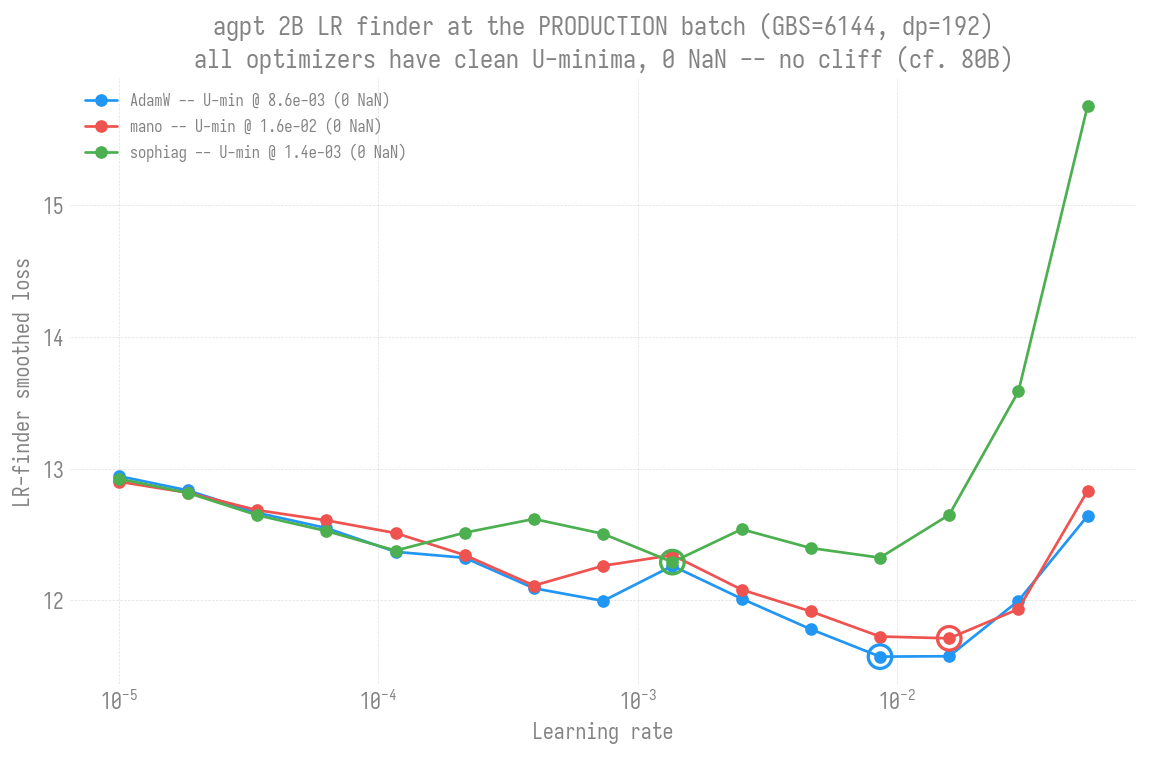
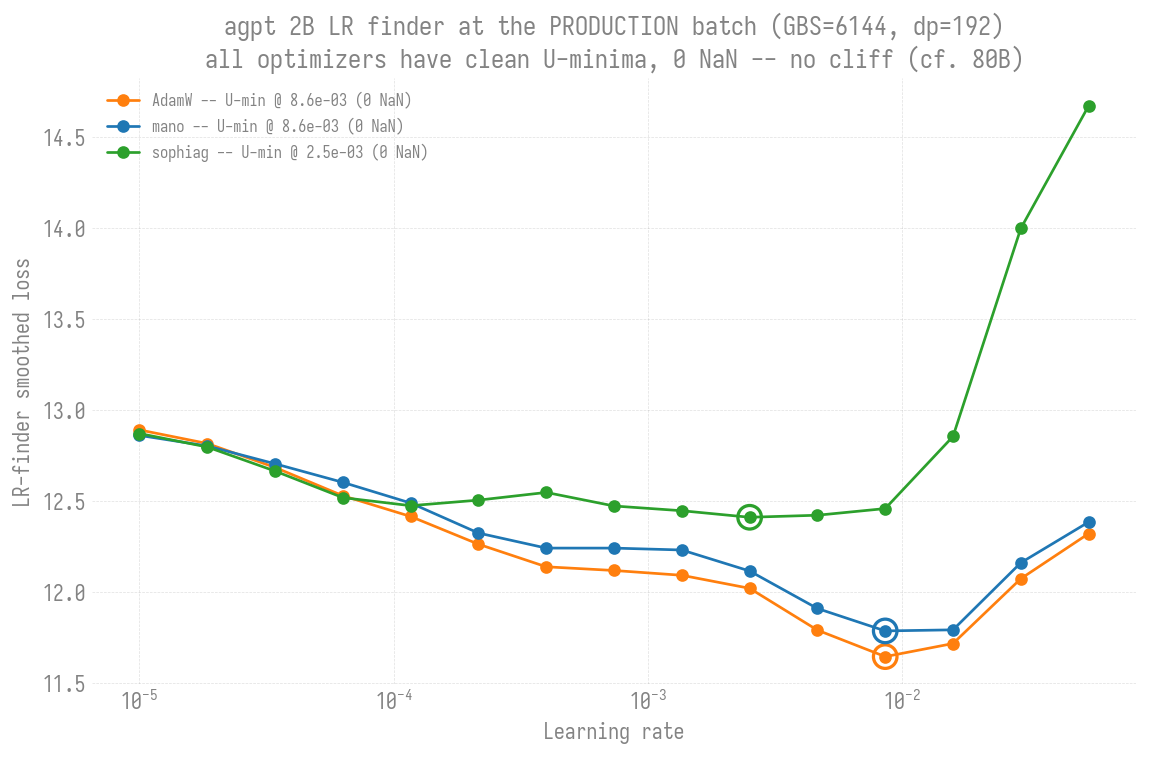
fix(ezpz/lr-finder): canonical colors in plot_2b_all_optimizers too (missed last pass)
The previous color-unification pass missed plot_2b_all_optimizers (the 2B
production all-optimizer figure) -- it still used matplotlib's default color
cycle (AdamW=blue, mano=red via the stylesheet), so 2B disagreed with the 20B
and 80B figures (AdamW=orange, mano=blue, sophiag=green). Now uses OPT_COLOR
explicitly + _smooth, matching plot_all_optimizers_at_gbs.

Audited exhaustively this time: grepped every plot function; no get_color()/
default-cycle optimizer plots remain -- all use OPT_COLOR / OPT_CMAP.
Regenerated the 2B gbs6144 + gbs12288 production figures.

diff --git a/torchtitan/experiments/ezpz/scripts/plot_lr_trend.py b/torchtitan/experiments/ezpz/scripts/plot_lr_trend.py
@@ -420,11 +420,14 @@ def plot_2b_all_optimizers(out: Path, gbs: int = 6144) -> None:
         p = csv_2b(gbs, opt)
         if not Path(p).exists():
             continue
-        fx, fy = _finite(*load_curve(p))
-        mlr, mloss = _min(*load_curve(p))
-        line, = ax.plot(fx, fy, "-o", ms=6, label=f"{lab} -- U-min @ {mlr:.1e} (0 NaN)")
+        fx, fy_raw = _finite(*load_curve(p))
+        fy = _smooth(fy_raw)
+        mi = min(range(len(fy)), key=lambda k: fy[k])
+        mlr, mloss = fx[mi], fy[mi]
+        ax.plot(fx, fy, "-o", ms=6, color=OPT_COLOR[opt],
+                label=f"{lab} -- U-min @ {mlr:.1e} (0 NaN)")
         ax.scatter([mlr], [mloss], s=170, facecolors="none",
-                   edgecolors=line.get_color(), linewidths=1.8, zorder=4)
+                   edgecolors=OPT_COLOR[opt], linewidths=1.8, zorder=4)
     ax.set_xscale("log")
     ax.set_xlabel("Learning rate")
     ax.set_ylabel("LR-finder smoothed loss")
